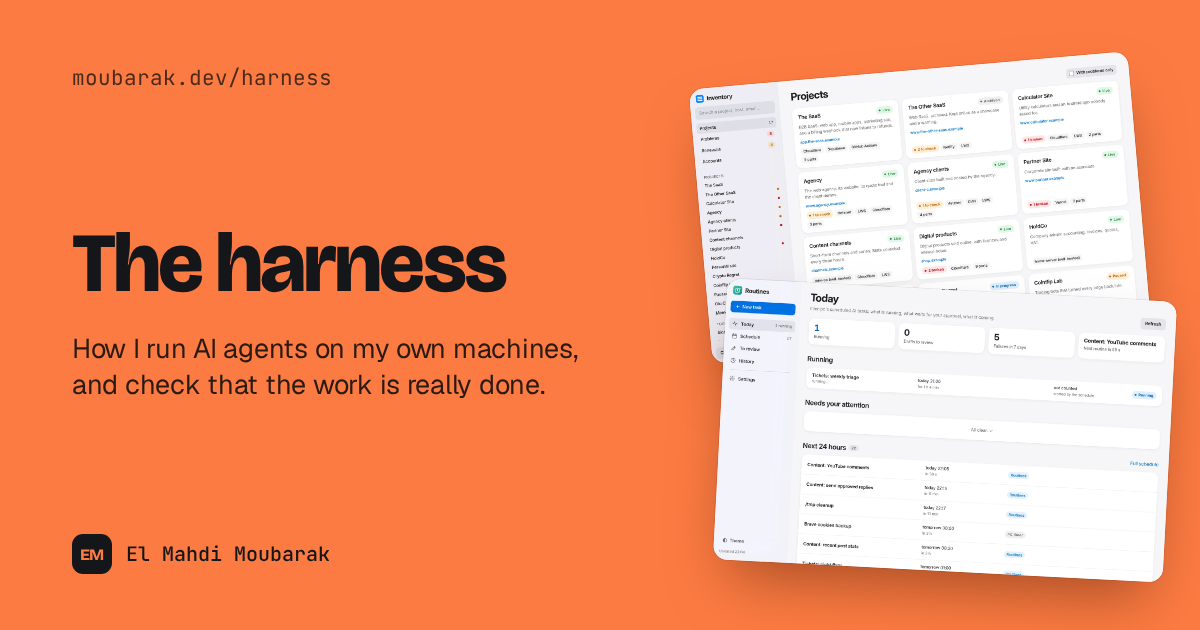
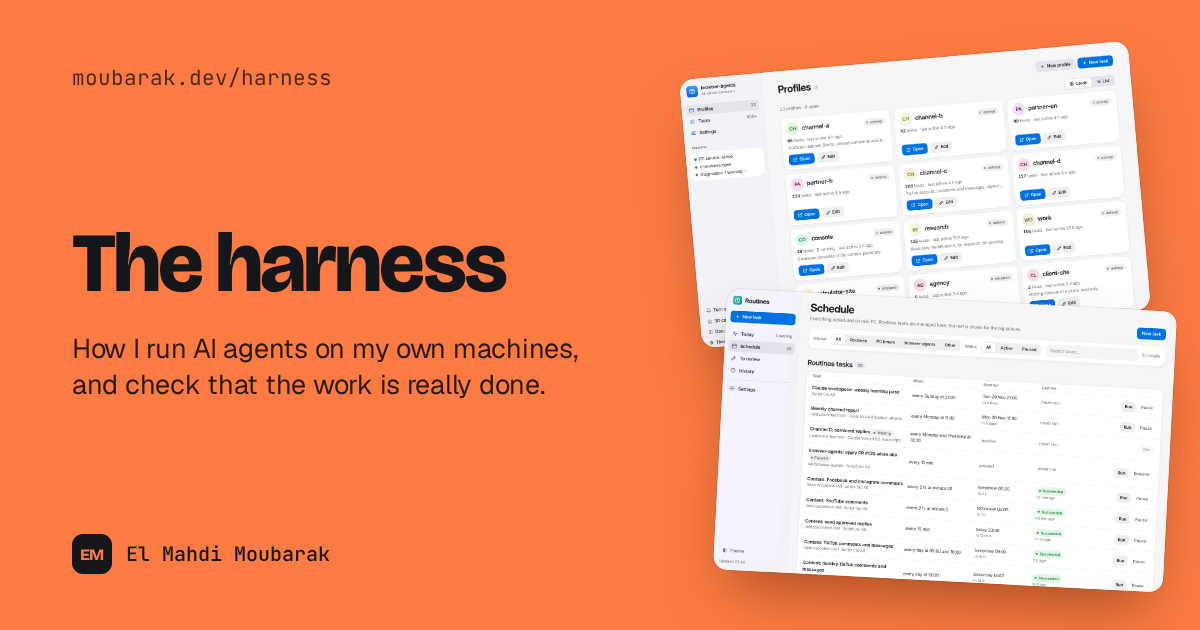
Harness page: sharp 2x captures of the real apps (anonymized), browser-agents profiles, a section on the agents that share one rulebook
- New captures at 2x of the dashboard, the routines schedule, the services page and the
  browser-agents profiles, names and amounts rewritten before capture, refused if any slipped.
- Agents section: Claude Code, opencode, pi, browser-agents, Hermes gateway and routines,
  with their models and which rules apply.
- Ledger shows what a project owns instead of a low-resolution capture.

diff --git a/src/data/harness.js b/src/data/harness.js
@@ -94,7 +94,7 @@ export const harness = {
         'A video render <b>reserves RAM before starting</b>: the arbiter swaps models, then gives it back.',
         'Confidential tasks run on a separate browser-agent instance that <b>only talks to the local model</b>.',
       ],
-      visual: { kind: 'image', src: '/harness-strata.webp', w: 1200, h: 340, alt: 'Benchmark card: Qwen3.8-Flash-Next 180B on an RTX 3080 20 GB over OCuLink. 2,000 tokens per second prompt read, 2,395 at 162k tokens, 110 to 204 generation, 262k context.' },
+      visual: { kind: 'image', src: '/harness/services.webp', w: 2200, h: 1760, alt: 'Services page of the mini PC: RTX 3080 eGPU and RAM gauges, the RTX arbiter with its default target, and the local models that can be loaded on the GPU or the integrated graphics.' },
     },
     {
       id: 'desk', name: 'Front desk', tag: 'one dashboard', icon: icons.desk, layout: 'wide',
@@ -105,7 +105,7 @@ export const harness = {
         '<b>Only I move a ticket to “ready”</b>. Agents may create tickets, never promote them.',
         'The local model <b>triaged 303 tickets in 37 repositories</b> for free, and a second agent argued against every proposed closure.',
       ],
-      visual: { kind: 'image', src: '/harness-dashboard.webp', w: 1095, h: 1000, alt: 'Dashboard in dark mode: repositories grouped by account in the sidebar, a "My day" panel with one issue in progress and seven pull requests with failing CI. Project names and issue titles are placeholders.' },
+      visual: { kind: 'image', src: '/harness/dashboard.webp', w: 2880, h: 1800, alt: 'Dashboard in dark mode: repositories grouped by account, a "My day" panel with one issue in progress and seven pull requests with failing CI, and today\'s calendar. Project names and event titles are placeholders.' },
     },
     {
       id: 'clock', name: 'Clock', tag: 'scheduled work', icon: icons.clock, layout: 'flip',
@@ -115,7 +115,7 @@ export const harness = {
         'Anything written for the outside world <b>lands in “to review” first</b>. A script sends only what I approved.',
         'Reports reach Telegram: the night\'s fixes in the morning, a failed routine the moment it fails.',
       ],
-      visual: { kind: 'clock' },
+      visual: { kind: 'clock', src: '/harness/routines-schedule.webp', w: 2880, h: 1800, alt: 'Routines, Schedule page: each task with its timing, next run, last result and what runs it (a script, the local model or Claude). Project names are placeholders.' },
     },
     {
       id: 'hands', name: 'Hands', tag: 'browser agents', icon: icons.hands, layout: 'wide',
@@ -125,9 +125,10 @@ export const harness = {
         'One isolated worker per task. Every task records <b>who created it</b>: a routine, a session or me.',
         'Password, captcha or 2FA: <b>Telegram pings my phone</b> and I take over the remote browser by touch.',
         'Money stays out of reach: bank, taxes and payments only happen in my own browser.',
+        'Each task runs with the model that fits it: Sonnet, Haiku, DeepSeek or a local Qwen.',
       ],
       incident: 'In a batch of searches, 12% to 90% of the pages came back blank and were counted as read. A page now counts only once its text is on screen, and is reloaded if it stays empty. The rerun had zero blank pages.',
-      visual: { kind: 'image', src: '/blog/one-person-it-department/browser-tasks-source.gif', w: 1472, h: 920, alt: 'The tasks page of the browser-agents back office filtering by source. Task goals are fake, such as "Read the 20 newest comments and draft replies for review".' },
+      visual: { kind: 'image', src: '/harness/browser-profiles.webp', w: 2880, h: 1720, alt: 'browser-agents back office, Profiles page: one card per account with its state (asleep or stopped), task count, last activity and purpose. Names and purposes are placeholders.' },
     },
     {
       id: 'ledger', name: 'Ledger', tag: 'inventory', icon: icons.ledger, layout: 'flip',
@@ -138,7 +139,7 @@ export const harness = {
         'Renewals flow into my calendar as reminders: <b>19 created on the first run</b>.',
       ],
       incident: 'While filling it in, the agent found a contact address shown on one of my sites that had never existed as a mailbox. Every email sent to it had been lost since the site went live.',
-      visual: { kind: 'image', src: '/blog/one-person-it-department/inventory.webp', w: 1600, h: 1000, alt: 'Inventory, "Projects" page: project cards with a status, a description and the services behind them. Names and links are fake.' },
+      visual: { kind: 'project', parts: ['Repositories', 'A domain', 'A mailbox', 'A host', 'Accounts', 'Renewals and bills'] },
     },
     {
       id: 'watch', name: 'Watchtower', tag: 'probes & alerts', icon: icons.watch, anchor: 'vault', hidden: true,
@@ -163,6 +164,19 @@ export const harness = {
       },
     },
   ],
+
+  agents: {
+    intro: 'Claude Code is the main agent, but it is not the only one. Each agent gets the same rulebook, so a correction made once applies everywhere.',
+    hub: { title: 'One rulebook', items: ['120-line instructions', 'Hooks that say no', 'Skills', 'Memory of past sessions'] },
+    list: [
+      { name: 'Claude Code', icon: icons.type, role: 'Main engineering agent, three or four sessions in parallel.', brains: 'Haiku, Sonnet or Opus, picked per prompt by a router', rules: 'Rules, hooks, skills, memory' },
+      { name: 'opencode', icon: icons.route, role: 'Second coding agent, on the local model.', brains: 'Local 180B or 27B', rules: 'Same rules, generated; same hooks through a plugin' },
+      { name: 'pi', icon: icons.shield, role: 'Small fixes delegated when code must stay on the machine, in a copy of the repository.', brains: 'Local model', rules: 'Same rules; nothing applied without my review' },
+      { name: 'browser-agents', icon: icons.hands, role: 'Web work with no API, one dedicated browser per account.', brains: 'Sonnet, Haiku, DeepSeek or local Qwen', rules: 'Human hand-off for passwords; every task closed with its result' },
+      { name: 'Hermes gateway', icon: icons.brains, role: 'Agent gateway for routines and bots that must run without my plan.', brains: 'The local model alias', rules: 'Callers never name a model' },
+      { name: 'Routines', icon: icons.clock, role: 'Scheduled work: a script first, then the local model, then Claude when quality matters.', brains: 'Script, local model or Claude', rules: 'Outside-facing text waits in “To review”' },
+    ],
+  },
 
   skills: {
     intro: 'A skill is a written procedure the model loads when a task matches: what good looks like, the tools to use, the traps I already fell into. One per kind of work I repeat. These are the ones my sessions load most.',

diff --git a/scripts/og.py b/scripts/og.py
@@ -68,8 +68,8 @@ def cards():
         "sub": "How I run AI agents on my own machines, and check that the work is really done.",
         "foot": "El Mahdi Moubarak",
         "images": [
-            {"src": f"{p}/blog/one-person-it-department/inventory.webp", "w": 440, "x": 700, "y": 70, "r": -5},
-            {"src": f"{p}/blog/one-person-it-department/routines-today.webp", "w": 450, "x": 720, "y": 290, "r": 3},
+            {"src": f"{p}/harness/browser-profiles.webp", "w": 450, "x": 690, "y": 60, "r": -5},
+            {"src": f"{p}/harness/routines-schedule.webp", "w": 450, "x": 720, "y": 300, "r": 3},
         ],
     }
     yield "blog", {
